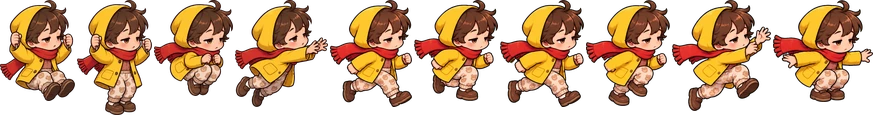
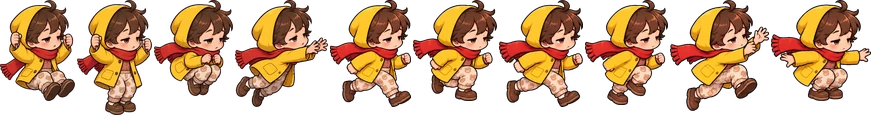
Parkur görselleri tamam: dört karakterin koşusu, beş bölgenin blok ve trambolini
Yeşil zemin temizliği iki aşamalı (orman yosunu korunuyor); basılan yüzey
uç süslerinden bağımsız; mantar gibi uzun trambolinler zeminden kırpılıyor.

diff --git a/js/ciz/resimler.js b/js/ciz/resimler.js
@@ -4,13 +4,13 @@
 // buradan geçiyor; ox/oy: pozun dönme noktası, atlas px.
 export const RESIM = {
   cocuk: { dosya:'resim/cocuk.webp', depo:2.25, el:11.2, alfa:1,
-    pozlar:{ otur:{x:0,y:0,w:75,h:101,ox:42.6,oy:84.5}, ayakta:{x:77,y:0,w:75,h:115,ox:44.4,oy:112.5}, ucus:{x:154,y:0,w:79,h:96,ox:45.7,oy:52.3}, uzan:{x:235,y:0,w:93,h:107,ox:41.8,oy:55.2}, kosu1:{x:330,y:0,w:82,h:107,ox:52.0,oy:107.3}, kosu2:{x:414,y:0,w:84,h:101,ox:53.8,oy:101.0}, kosu3:{x:500,y:0,w:84,h:107,ox:54.8,oy:106.5}, kosu4:{x:586,y:0,w:84,h:106,ox:53.9,oy:105.6}, zipla:{x:672,y:0,w:99,h:111,ox:54.7,oy:55.4}, inis:{x:773,y:0,w:100,h:102,ox:59.0,oy:101.5} } },
+    pozlar:{ otur:{x:0,y:0,w:75,h:101,ox:42.6,oy:84.5}, ayakta:{x:77,y:0,w:75,h:115,ox:44.4,oy:112.5}, ucus:{x:154,y:0,w:79,h:96,ox:45.7,oy:52.3}, uzan:{x:235,y:0,w:93,h:107,ox:41.8,oy:55.2}, kosu1:{x:330,y:0,w:81,h:107,ox:51.6,oy:107.0}, kosu2:{x:413,y:0,w:84,h:101,ox:53.5,oy:100.7}, kosu3:{x:499,y:0,w:84,h:107,ox:54.5,oy:106.5}, kosu4:{x:585,y:0,w:83,h:105,ox:53.8,oy:105.1}, zipla:{x:670,y:0,w:99,h:111,ox:54.6,oy:55.4}, inis:{x:771,y:0,w:100,h:101,ox:59.0,oy:101.2} } },
   kedi: { dosya:'resim/kedi.webp', depo:2.25, el:12.0, alfa:1,
-    pozlar:{ otur:{x:0,y:0,w:81,h:95,ox:47.1,oy:83.0}, ayakta:{x:83,y:0,w:80,h:105,ox:46.3,oy:103.9}, ucus:{x:165,y:0,w:73,h:89,ox:44.0,oy:48.7}, uzan:{x:240,y:0,w:96,h:98,ox:52.5,oy:50.7} } },
+    pozlar:{ otur:{x:0,y:0,w:81,h:95,ox:47.1,oy:83.0}, ayakta:{x:83,y:0,w:80,h:105,ox:46.3,oy:103.9}, ucus:{x:165,y:0,w:73,h:89,ox:44.0,oy:48.7}, uzan:{x:240,y:0,w:96,h:98,ox:52.5,oy:50.7}, kosu1:{x:338,y:0,w:95,h:97,ox:62.0,oy:96.5}, kosu2:{x:435,y:0,w:90,h:92,ox:60.7,oy:92.2}, kosu3:{x:527,y:0,w:96,h:95,ox:61.5,oy:95.2}, kosu4:{x:625,y:0,w:92,h:94,ox:61.8,oy:93.4}, zipla:{x:719,y:0,w:101,h:94,ox:61.3,oy:46.9}, inis:{x:822,y:0,w:102,h:85,ox:69.0,oy:84.7} } },
   astronot: { dosya:'resim/astronot.webp', depo:2.25, el:12.1, alfa:1,
-    pozlar:{ otur:{x:0,y:0,w:75,h:103,ox:41.0,oy:82.4}, ayakta:{x:77,y:0,w:70,h:111,ox:37.8,oy:110.3}, ucus:{x:149,y:0,w:72,h:95,ox:41.2,oy:53.7}, uzan:{x:223,y:0,w:92,h:103,ox:46.9,oy:53.7} } },
+    pozlar:{ otur:{x:0,y:0,w:75,h:103,ox:41.0,oy:82.4}, ayakta:{x:77,y:0,w:70,h:111,ox:37.8,oy:110.3}, ucus:{x:149,y:0,w:72,h:95,ox:41.2,oy:53.7}, uzan:{x:223,y:0,w:92,h:103,ox:46.9,oy:53.7}, kosu1:{x:317,y:0,w:75,h:100,ox:43.1,oy:99.7}, kosu2:{x:394,y:0,w:71,h:99,ox:40.5,oy:98.5}, kosu3:{x:467,y:0,w:74,h:100,ox:43.1,oy:99.9}, kosu4:{x:543,y:0,w:73,h:101,ox:42.9,oy:101.1}, zipla:{x:618,y:0,w:95,h:91,ox:53.4,oy:45.4}, inis:{x:715,y:0,w:93,h:93,ox:50.7,oy:93.0} } },
   hayalet: { dosya:'resim/hayalet.webp', depo:2.25, el:12.0, alfa:0.82,
-    pozlar:{ otur:{x:0,y:0,w:71,h:94,ox:38.2,oy:87.3}, ayakta:{x:73,y:0,w:69,h:100,ox:35.6,oy:97.6}, ucus:{x:144,y:0,w:60,h:90,ox:30.5,oy:46.7}, uzan:{x:206,y:0,w:90,h:93,ox:40.4,oy:48.5} } }
+    pozlar:{ otur:{x:0,y:0,w:71,h:94,ox:38.2,oy:87.3}, ayakta:{x:73,y:0,w:69,h:100,ox:35.6,oy:97.6}, ucus:{x:144,y:0,w:60,h:90,ox:30.5,oy:46.7}, uzan:{x:206,y:0,w:90,h:93,ox:40.4,oy:48.5}, kosu1:{x:298,y:0,w:80,h:89,ox:51.7,oy:89.0}, kosu2:{x:380,y:0,w:79,h:91,ox:50.7,oy:90.6}, kosu3:{x:461,y:0,w:82,h:88,ox:54.3,oy:87.9}, kosu4:{x:545,y:0,w:84,h:89,ox:55.7,oy:88.3}, zipla:{x:631,y:0,w:74,h:103,ox:34.6,oy:51.5}, inis:{x:707,y:0,w:100,h:69,ox:55.3,oy:68.5} } }
 };
 
 // Salıncak iskeletleri, BOL sırasıyla. px/py: pivot (zincirlerin asıldığı
@@ -37,7 +37,19 @@ export const BOYALI = {
 // uç parçaların genişliği; pxm: atlas px / dünya metresi. tramb: dinlenen ve
 // basılmış hâl, aynı tabanda; ust: sekme yüzeyinin tepeden uzaklığı.
 export const PARKUR_RESIM = {
-  0: { dosya:'resim/park-parkur.webp', pxm:87.1,
-    blok:{x:0,y:0,w:679,h:103,kapak:39.2,sol:26.4,sag:26.8,alt:7.7},
-    tramb:[{x:0,y:105,w:321,h:110},{x:323,y:105,w:321,h:110}], ust:14.3 }
+  0: { dosya:'resim/park-parkur.webp', pxm:79.1,
+    blok:{x:0,y:0,w:679,h:103,kapak:39.2,sol:26.4,sag:26.8,alt:7.7,yuzey:3.6},
+    tramb:[{x:0,y:105,w:321,h:110},{x:323,y:105,w:321,h:110}], ust:16.6 },
+  1: { dosya:'resim/orman-parkur.webp', pxm:81.8,
+    blok:{x:0,y:0,w:601,h:118,kapak:59.6,sol:90.4,sag:90.4,alt:7.0,yuzey:22.8},
+    tramb:[{x:0,y:120,w:250,h:166},{x:252,y:120,w:250,h:166}], ust:5.0 },
+  2: { dosya:'resim/bulutlar-parkur.webp', pxm:126.2,
+    blok:{x:0,y:0,w:664,h:122,kapak:62.4,sol:83.2,sag:83.2,alt:7.1,yuzey:5.6},
+    tramb:[{x:0,y:124,w:238,h:100},{x:240,y:124,w:238,h:100}], ust:8.0 },
+  3: { dosya:'resim/yorunge-parkur.webp', pxm:68.4,
+    blok:{x:0,y:0,w:639,h:106,kapak:37.2,sol:67.2,sag:64.8,alt:8.3,yuzey:6.4},
+    tramb:[{x:0,y:108,w:234,h:100},{x:236,y:108,w:234,h:100}], ust:20.1 },
+  4: { dosya:'resim/buz-parkur.webp', pxm:92.4,
+    blok:{x:0,y:0,w:655,h:135,kapak:60.8,sol:52.0,sag:52.4,alt:8.9,yuzey:19.2},
+    tramb:[{x:0,y:137,w:279,h:131},{x:281,y:137,w:279,h:131}], ust:24.1 }
 };

diff --git a/js/ciz/engel.js b/js/ciz/engel.js
@@ -39,6 +39,10 @@ for(const b in PARKUR_RESIM){
 // bir boşluk parlıyor.
 function blokResim(kaynak, R, x, y, w, h){
   const B = R.blok, s = PM / R.pxm;
+  // Basılan yüzey resmin tepesi değil (sprite.py, yuzey): uçlardaki süsler
+  // — buz kristali, orman yaprağı — onun üstüne taşıyor. Resim o kadar
+  // yukarıdan başlıyor ki yüzey tam e.ust'e otursun.
+  const yz = (B.yuzey||0)*s; y -= yz; h += yz;
   let sol = B.sol*s, sag = B.sag*s;
   if(sol+sag > w){ const k = w/(sol+sag); sol*=k; sag*=k; }
   const kap = Math.min(B.kapak*s, h), altH = Math.min(B.alt*s, Math.max(0, h-kap));
@@ -71,8 +75,13 @@ function trambolinResim(kaynak, R, d, e){
   const T = R.tramb[bas];
   const sx = (e.x1-e.x0)*PM / T.w;
   const sy = Math.max(e.ust*PM / (T.h - R.ust), sx*.85);
-  const q = ekr(e.x0, e.ust);
+  const q = ekr(e.x0, e.ust), yer = ekr(e.x0, 0).sy;
+  // Yerin altına düşen kısım kırpılıyor: ormanın mantarı fizikteki
+  // trambolinden (3.4 × .75 m) çok daha uzun — şapkası yerden çıkıyor.
+  X.save();
+  X.beginPath(); X.rect(q.sx - T.w*sx, yer - 4000, T.w*sx*3, 4000); X.clip();
   X.drawImage(kaynak, T.x, T.y, T.w, T.h, q.sx, q.sy - R.ust*sy, T.w*sx, T.h*sy);
+  X.restore();
 }
 
 function resimliCiz(d, R, e, gece){

diff --git a/sw.js b/sw.js
@@ -1,6 +1,6 @@
 // derle.py tarafindan uretildi — elle duzenleme, derlemede uzerine yazilir.
 // Dosya listesi derle.py'deki SIRA'dan turetiliyor.
-const SURUM = 'salincak-eee030c002';
+const SURUM = 'salincak-117d1e11a6';
 const DOSYALAR = [
   './',
   'index.html',
@@ -56,9 +56,11 @@ const DOSYALAR = [
   'resim/astronot.webp',
   'resim/bulutlar-on.webp',
   'resim/bulutlar-orta.webp',
+  'resim/bulutlar-parkur.webp',
   'resim/bulutlar-uzak.webp',
   'resim/buz-on.webp',
   'resim/buz-orta.webp',
+  'resim/buz-parkur.webp',
   'resim/buz-uzak.webp',
   'resim/cocuk.webp',
   'resim/hayalet.webp',
@@ -66,6 +68,7 @@ const DOSYALAR = [
   'resim/kedi.webp',
   'resim/orman-on.webp',
   'resim/orman-orta.webp',
+  'resim/orman-parkur.webp',
   'resim/orman-uzak.webp',
   'resim/park-on.webp',
   'resim/park-orta.webp',
@@ -73,6 +76,7 @@ const DOSYALAR = [
   'resim/park-uzak.webp',
   'resim/yorunge-on.webp',
   'resim/yorunge-orta.webp',
+  'resim/yorunge-parkur.webp',
   'resim/yorunge-uzak.webp',
 ];
 
